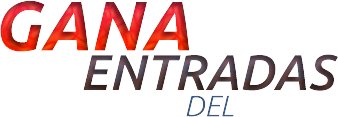
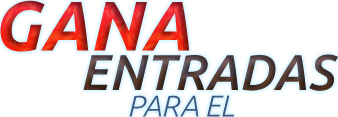
Cambios landing

Changed region(s): [[0.0, 0.0, 1.0, 1.0], [0.7396, 0.4615, 0.7988, 0.4872]]

diff --git a/docs/Cortes/landing_tuils/css/styles.css b/docs/Cortes/landing_tuils/css/styles.css
@@ -79,6 +79,7 @@ h3{
 	font-weight: 500;
 	font-style: italic;
 	color:#3c5b82;
+	text-shadow:1px 1px 8px #e4fafe, 1px 1px 8px #e4fafe, 1px 1px 8px #e4fafe, 1px 1px 8px #e4fafe;
 }
 h3 b{
 	font-weight: 700;
@@ -165,8 +166,8 @@ button:hover, button:active{
 }
 .ganador{
 	background: url(../images/img_1.png) no-repeat center / 100%;
-	width: 751px;
-	height:493px;
+	width: 805px;
+	height:560px;
 	position: fixed;
 	bottom: 20px;
 	right:20%;
@@ -186,26 +187,38 @@ button:hover, button:active{
 	}
 	.ganador{
 		right:2%;
+		width: 60%;
+		height:438px;
+	}
+}
+@media screen and (max-width:1300px) {
+	header{
+		height:90px;
+		background-position: bottom right;
+	}
+	.content{
+		padding:90px 0;
+	}
+	.logo{
+		width:200px;
+		height: 115px;
+	}
+	.ganador{
+		right:-2%;
+		width: 50%;
+		bottom: 10px;
 	}
 }
 @media screen and (max-width:1200px) {
-	header{
-		background-size: auto;
-	}
 	.ganador{
 		position: fixed;
 		right: 2%;
-		width: 60%;
 	}
 	.tira{
 		width:515px;
 	}
 }
 @media screen and (max-width:940px) {
-	header{
-		height:90px;
-		background-position: bottom right;
-	}
 	.content, .content-h{
 		width:auto;
 		margin:0 20px;
@@ -217,6 +230,16 @@ button:hover, button:active{
 	.logo{
 		width: 170px;
 		height: 105px;
+	}
+	.tit_landing{
+		width: 270px;
+		margin: 0 0 80px;
+	}
+	.logofest{
+		width: 230px;
+		height:100px;
+		bottom:-60px;
+		right:-100px;
 	}
 }
 @media screen and (max-width:768px) {
@@ -232,15 +255,10 @@ button:hover, button:active{
 	.tira{
 		left:-60px;
 	}
-	.tit_landing{
-		width: 270px;
-		margin: 0 0 80px;
-	}
-	.logofest{
-		width: 230px;
-		height:100px;
-		bottom:-60px;
-		right:-100px;
+}
+@media screen and (max-width:640px){
+	footer{
+		height:60px;
 	}
 }
 @media screen and (max-width:480px){
@@ -256,22 +274,12 @@ button:hover, button:active{
 	}
 	h3{
 		font-size:18px;
-		text-shadow:1px 1px 8px #e4fafe, 1px 1px 8px #e4fafe, 1px 1px 8px #e4fafe, 1px 1px 8px #e4fafe;
 	}
 	.tira{
 		width: 100%;
 		left: 0;
 		height: 60px;
 	}
-	input{
-		font-size: 14px;
-	}
-	button{
-		font-size: 16px;
-	}
-
-}
-@media screen and (max-width:360px){
 	.tit_landing{
 		width: 210px;
 		height:75px;
@@ -280,5 +288,19 @@ button:hover, button:active{
 		width:170px;
 		right:-75px;
 		bottom:-70px;
+	}
+	input{
+		font-size: 14px;
+	}
+	button{
+		font-size: 16px;
+	}
+}
+@media screen and (max-width:360px){
+
+}
+@media screen and (max-width:340px){
+	.tit_landing{
+		width:190px;
 	}
 }

diff --git a/docs/Cortes/landing_tuils/index.html b/docs/Cortes/landing_tuils/index.html
@@ -35,6 +35,8 @@
 			</form>
 		</section>
 	</div>
-	<footer></footer>
+	<footer>
+		<div></div>
+	</footer>
 </body>
 </html>
